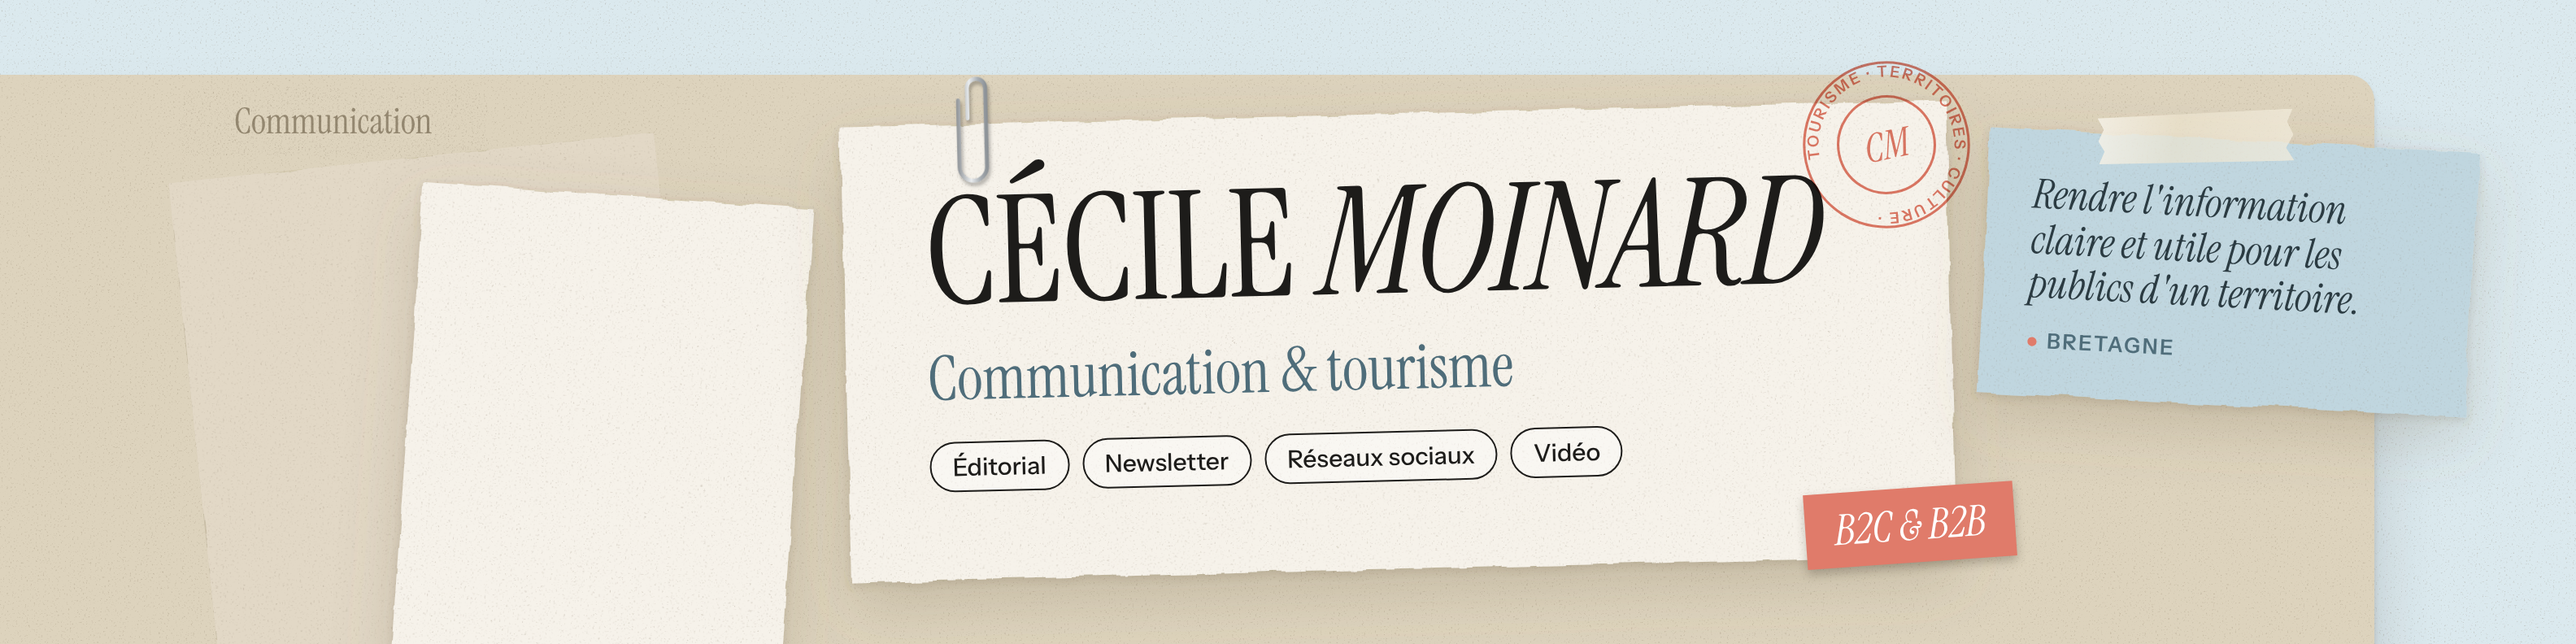
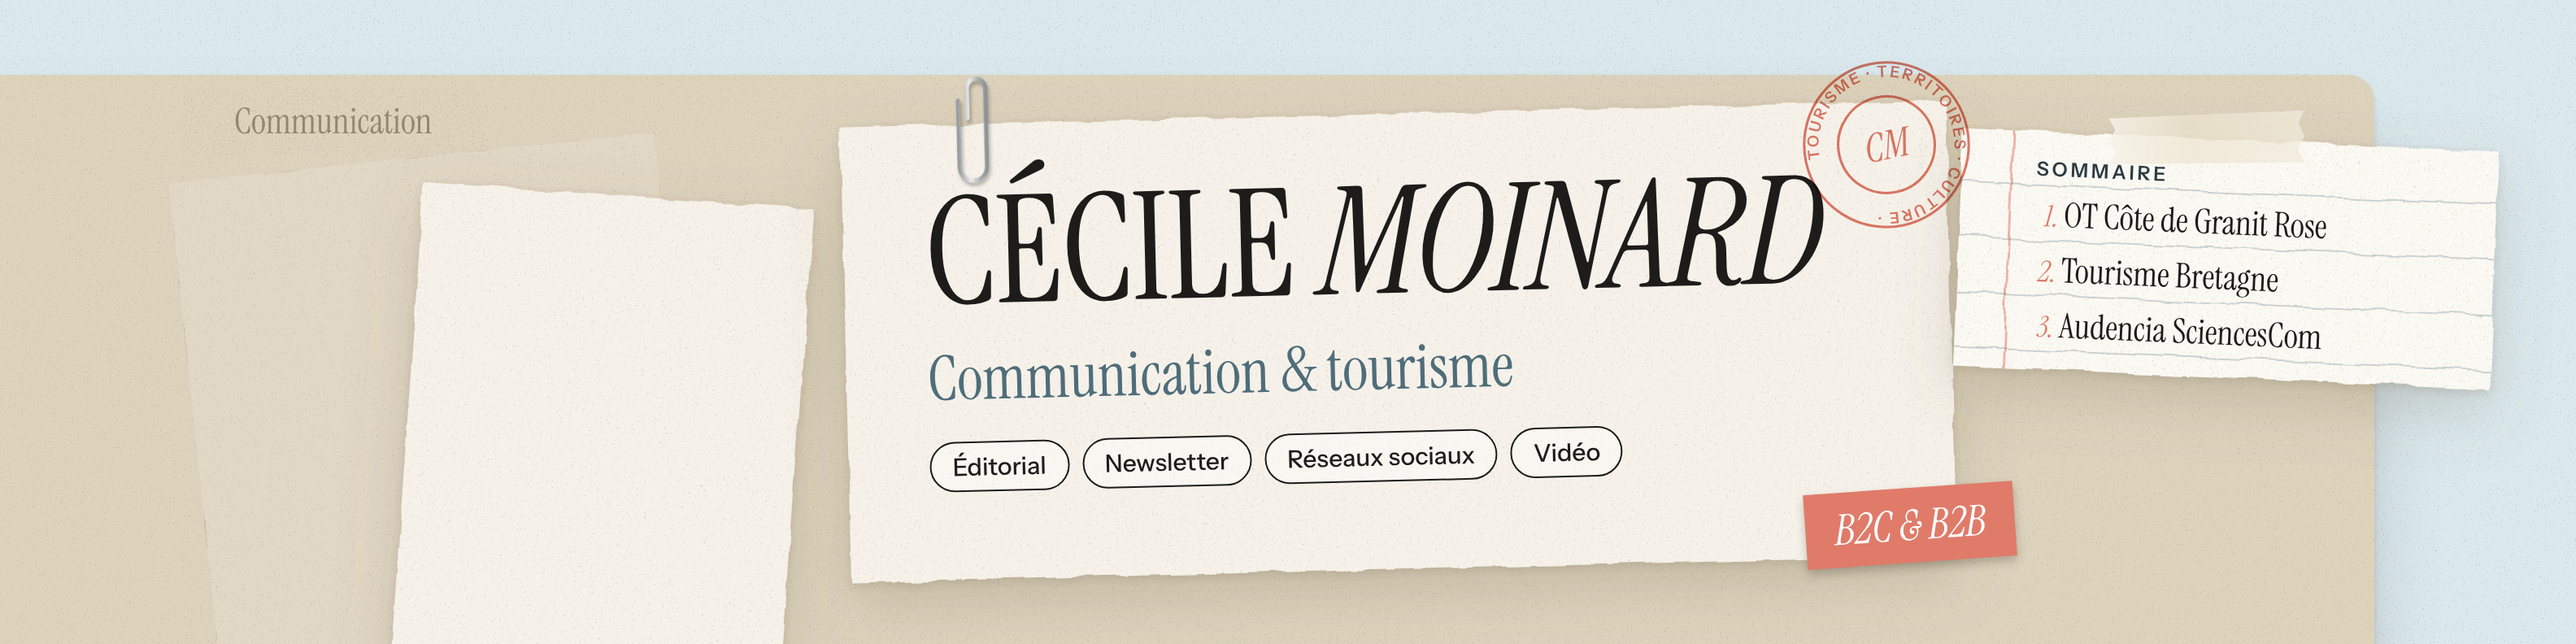
Bannière LinkedIn : fiche sommaire à la place du slogan
Claude-Session: https://claude.ai/code/session_01GLTHKFgKeXwWvvFJwYZPiH

Changed region(s): [[0.75, 0.1818, 0.9688, 0.6667]]

diff --git a/linkedin/banniere.html b/linkedin/banniere.html
@@ -62,6 +62,17 @@ body { width: 1584px; height: 396px; overflow: hidden; background: var(--desk) v
 .sticker { right: auto !important; left: 1110px !important; top: 300px !important; z-index: 8; }
 .stamp { left: 1105px !important; top: 34px !important; width: 110px !important; height: 110px !important; }
 .holes::before { -webkit-mask: radial-gradient(circle at 30px 20%, transparent 11px, #000 11.6px), radial-gradient(circle at 30px 52%, transparent 11px, #000 11.6px) !important; }
+.card::before { background-color: #fbf9f3 !important;
+  background-image: linear-gradient(transparent 0 33px, rgba(79,109,122,.28) 33px 34px) , linear-gradient(90deg, transparent 0 30px, rgba(224,123,106,.55) 30px 31.5px, transparent 31.5px), var(--noise) !important;
+  background-size: 100% 34px, 100% 100%, auto !important; background-position: 0 12px, 0 0, 0 0 !important; }
+.card { padding: 20px 22px 18px 46px !important; width: 330px !important; right: 50px !important; transform: rotate(2.5deg) !important; }
+.card__head { font: 600 12px/1 "Instrument Sans", sans-serif !important; text-transform: uppercase; letter-spacing: .14em; color: var(--slate); margin-bottom: 8px; }
+.card ol { margin: 0; padding: 0 0 0 18px; font: 400 20px/34px "Instrument Serif", serif; color: var(--ink); }
+.card li::marker { font: italic 400 18px "Instrument Serif", serif; color: var(--coral); }
+.note.card p.card__head { font: 600 12px/22px "Instrument Sans", sans-serif !important; letter-spacing: .16em; margin: 0 0 0 0 !important; height: 22px; }
+.card { padding: 12px 22px 10px 46px !important; }
+.card::before { background-position: 0 -1px, 0 0, 0 0 !important; }
+.card ol { font-size: 21px !important; }
 </style>
 </head>
 <body>
@@ -82,10 +93,14 @@ body { width: 1584px; height: 396px; overflow: hidden; background: var(--desk) v
   <div class="tags"><span>Éditorial</span><span>Newsletter</span><span>Réseaux sociaux</span><span>Vidéo</span></div>
 </div>
 
-<div class="sheet note">
-  <span class="tape" style="left:66px;top:-16px;transform:rotate(-5deg)"></span>
-  <p>Rendre l'information claire et utile pour les publics d'un territoire.</p>
-  <small>Bretagne</small>
+<div class="sheet note card">
+  <span class="tape" style="left:90px;top:-16px;transform:rotate(-4deg)"></span>
+  <p class="card__head">Sommaire</p>
+  <ol>
+    <li><span>OT Côte de Granit Rose</span></li>
+    <li><span>Tourisme Bretagne</span></li>
+    <li><span>Audencia SciencesCom</span></li>
+  </ol>
 </div>
 
 <div class="sticker">B2C &amp; B2B</div>
